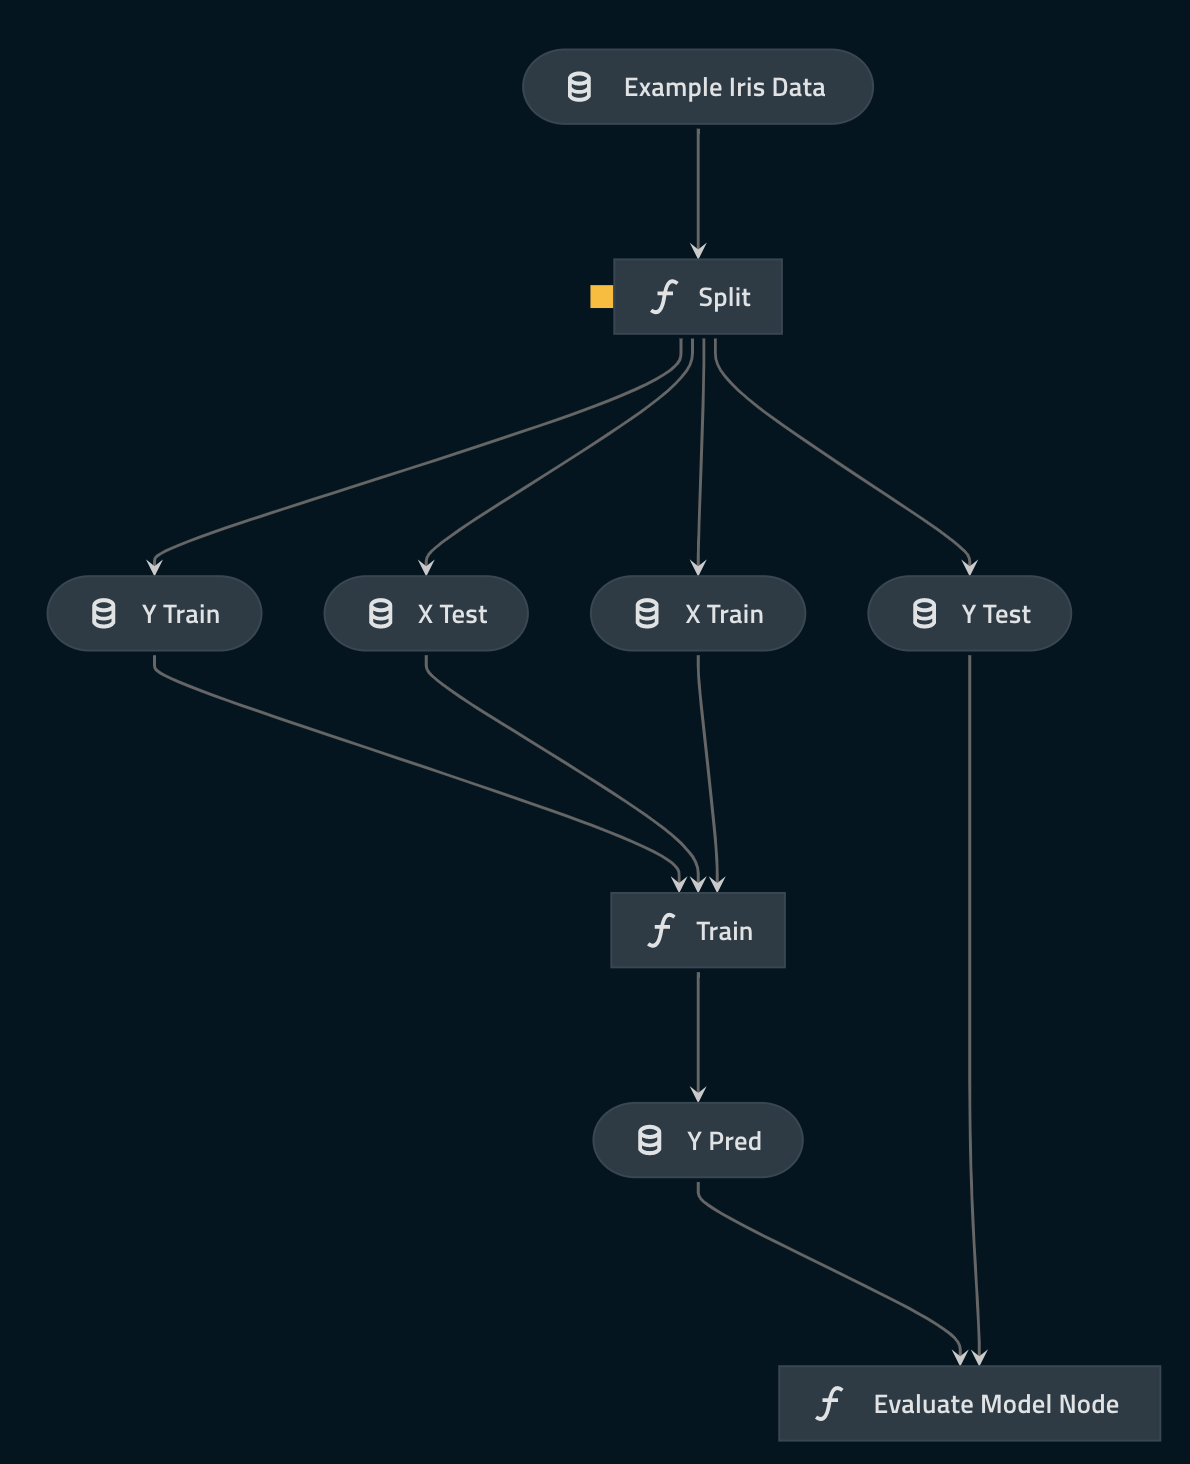
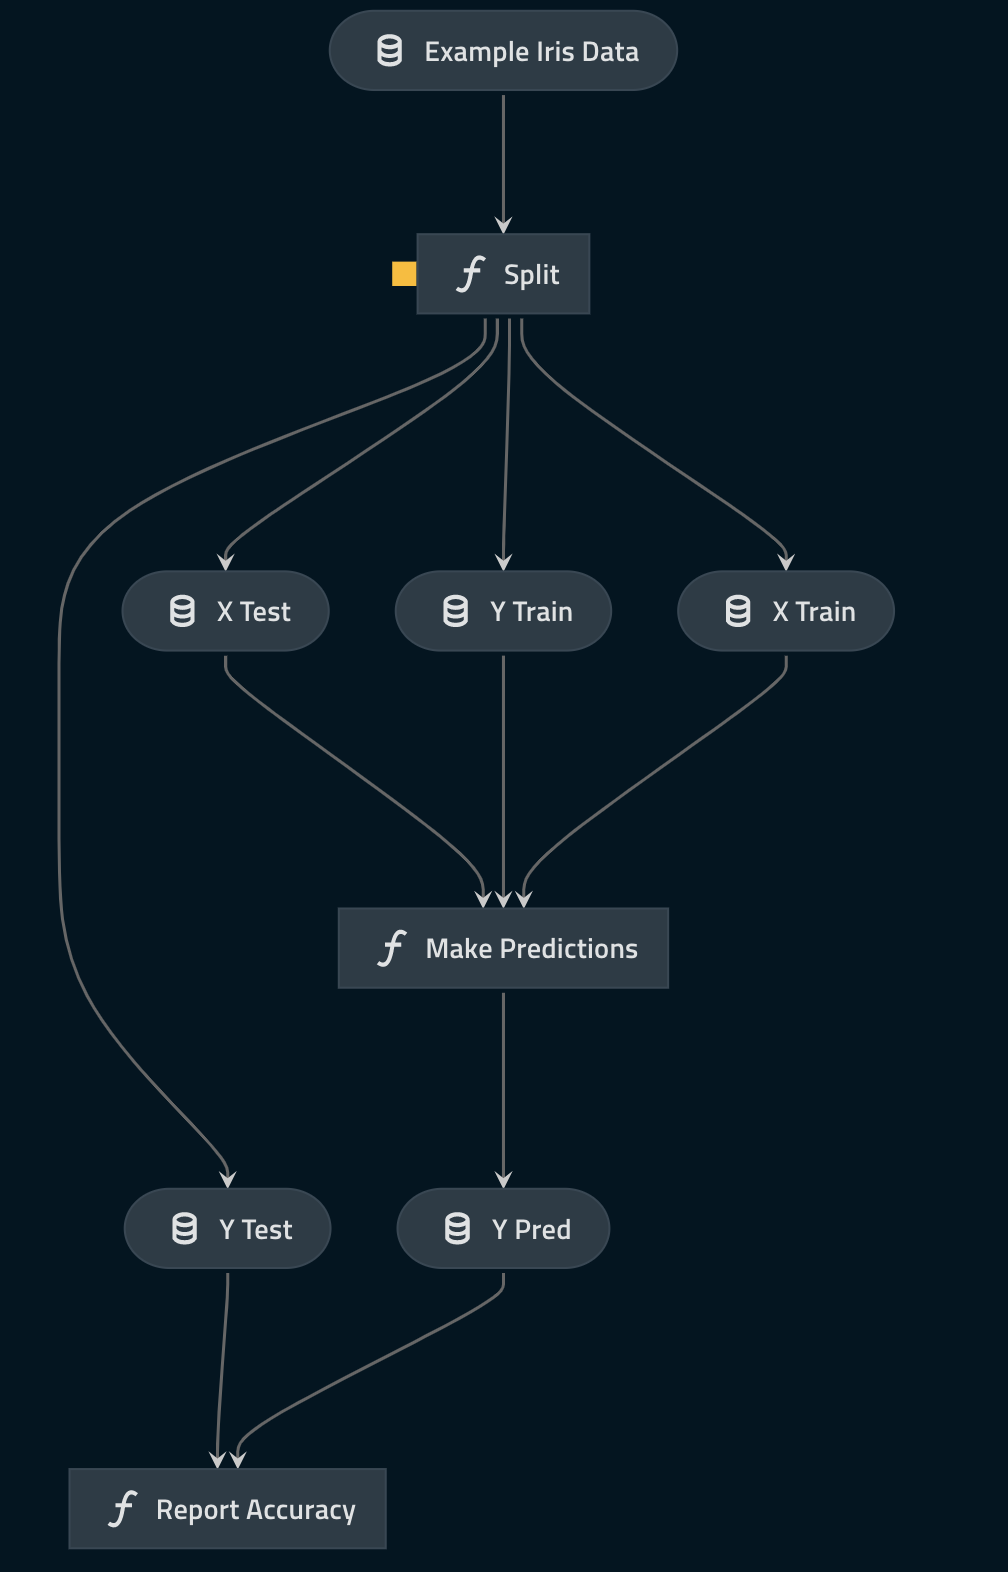
rename node functions

diff --git a/pandas-iris/{{ cookiecutter.repo_name }}/src/{{ cookiecutter.python_package }}/pipeline.py b/pandas-iris/{{ cookiecutter.repo_name }}/src/{{ cookiecutter.python_package }}/pipeline.py
@@ -5,7 +5,7 @@ generated using Kedro {{ cookiecutter.kedro_version }}
 
 from kedro.pipeline import Pipeline, node, pipeline
 
-from .nodes import evaluate_model, split_data, train_model
+from .nodes import report_accuracy, split_data, make_predictions
 
 
 def create_pipeline(**kwargs) -> Pipeline:
@@ -18,16 +18,16 @@ def create_pipeline(**kwargs) -> Pipeline:
                 name="split",
             ),
             node(
-                func=train_model,
+                func=make_predictions,
                 inputs=["X_train", "X_test", "y_train"],
                 outputs="y_pred",
-                name="train",
+                name="make_predictions",
             ),
             node(
-                func=evaluate_model,
+                func=report_accuracy,
                 inputs=["y_pred", "y_test"],
                 outputs=None,
-                name="evaluate_model_node",
+                name="report_accuracy",
             ),
         ]
     )

diff --git a/pandas-iris/{{ cookiecutter.repo_name }}/src/{{ cookiecutter.python_package }}/nodes.py b/pandas-iris/{{ cookiecutter.repo_name }}/src/{{ cookiecutter.python_package }}/nodes.py
@@ -34,10 +34,10 @@ def split_data(data: pd.DataFrame, parameters: Dict) -> Tuple:
     return X_train, X_test, y_train, y_test
 
 
-def train_model(
+def make_predictions(
     X_train: pd.DataFrame, X_test: pd.DataFrame, y_train: pd.DataFrame
 ) -> pd.DataFrame:
-    """Trains a model using 1-nearest neighbour classifier.
+    """Uses 1-nearest neighbour classifier to create predictions.
 
     Args:
         X_train: Training data of features.
@@ -61,7 +61,7 @@ def train_model(
     return y_pred
 
 
-def evaluate_model(y_pred: pd.DataFrame, y_test: pd.DataFrame):
+def report_accuracy(y_pred: pd.DataFrame, y_test: pd.DataFrame):
     """Calculates and logs the accuracy.
 
     Args:

diff --git a/pandas-iris/{{ cookiecutter.repo_name }}/src/{{ cookiecutter.python_package }}/README.md b/pandas-iris/{{ cookiecutter.repo_name }}/src/{{ cookiecutter.python_package }}/README.md
@@ -6,8 +6,8 @@
 
 This pipeline:
 1. splits the data into training dataset and testing dataset using a configurable ratio found in `conf/base/parameters.yml`
-2. runs a simple 1-nearest neighbour model (`train` node) and makes prediction dataset.
-3. reports the model accuracy on a test set (`evaluate_model` node)
+2. runs a simple 1-nearest neighbour model (`make_prediction` node) and makes prediction dataset.
+3. reports the model accuracy on a test set (`report_accuracy` node)
 
 ## Pipeline inputs
 
